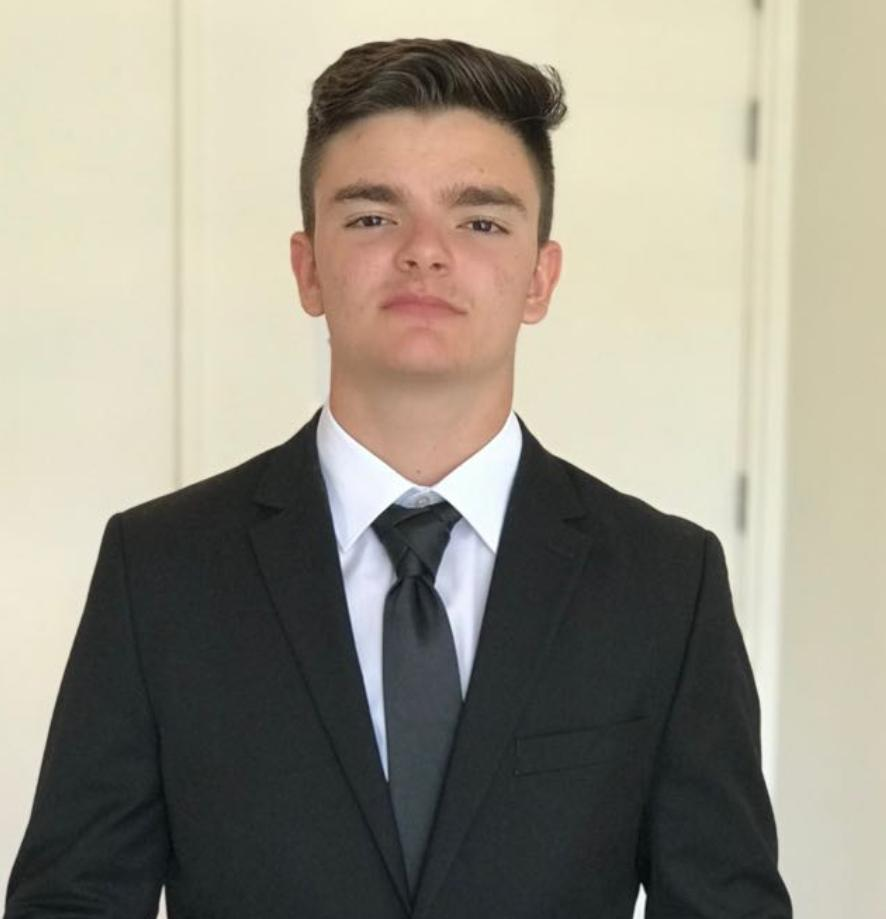
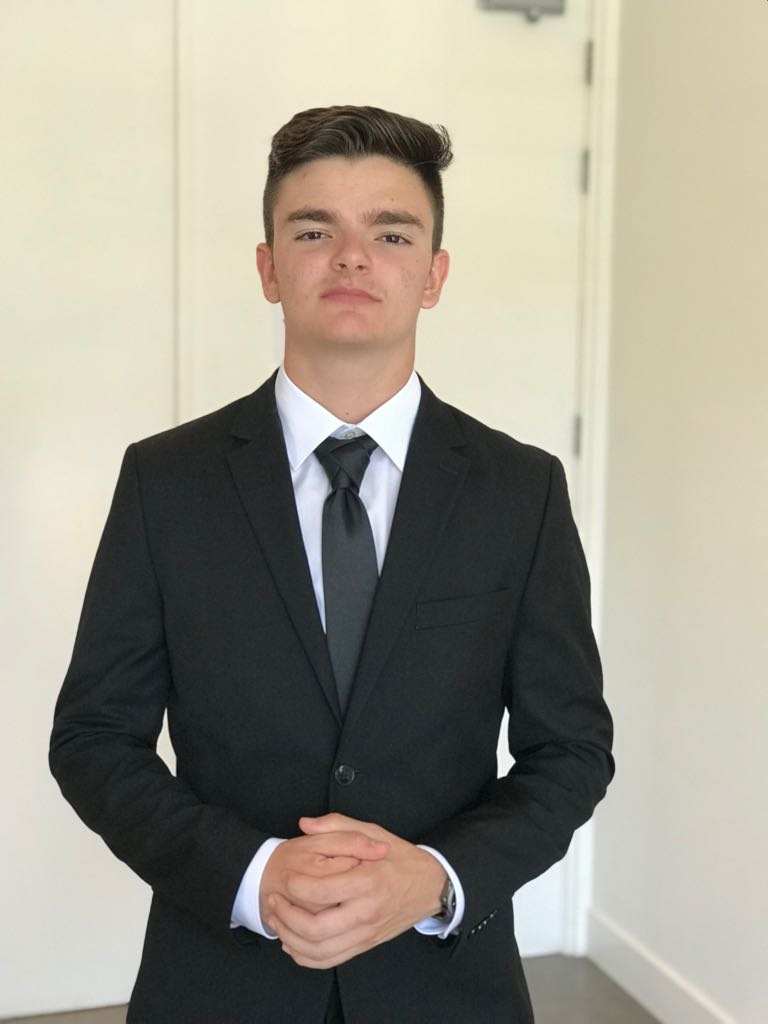
Akkabouz

diff --git a/OnsTeam.html b/OnsTeam.html
@@ -24,40 +24,45 @@
     <!-- Team Container -->
     <article class="article1">
         <div class="teamContainer teamPadding teamCenter" id="team">
-            <h2>Ons Team</h2>
-            <p>Ontmoet ons team:</p>
+            <h2>Ontmoet ons team:</h2>
 
             <div class="namenBalk">
 
                 <div class="Naam">
-                    <h3>Martin Antonov</h3>
-                    <img class="imgMartin" src="images/Martin.jpeg" alt="Avatar">
+                    <h3>Martin<br>Antonov</h3>
+                    <img class="img" src="images/MartinV2.jpeg" alt="Avatar">
                     <p>Voorzitter</p>
                 </div>
 
                 <div class="Naam">
                     <h3>Danial<br>Iqbal</h3>
-                    <img class="imgDanial" src="images/Danial.jpeg" alt="Avatar">
+                    <img class="img" src="images/Danial.jpeg" alt="Avatar">
+                    <p>Notulist & Designer</p>
                 </div>
 
                 <div class="Naam">
-                    <h3>Anass Mortaki</h3>
+                    <h3>Anass<br>Mortaki</h3>
                     <img class="img" src="images/Anass.jpg" alt="Avatar">
+                    <p>Researcher</p>
+                    <p>
                 </div>
 
                 <div class="Naam">
                     <h3>Abbas<br>Sardar</h3>
                     <img class="imgAbbas" src="images/Abbas.jpg" alt="Avatar">
+                    <p>Head developer</p>
                 </div>
 
                 <div class="Naam">
-                    <h3>Jason Schermer</h3>
+                    <h3>Jason<br>Schermer</h3>
                     <img class="img" src="images/Jason.jpg" alt="Avatar">
+                    <p>Planner</p>
                 </div>
 
                 <div class="Naam">
                     <h3>Onur Ortaakarsuci</h3>
                     <img class="img" src="images/Onur.jpg" alt="Avatar">
+                    <p>Tester</p>
                 </div>
 
             </div>

diff --git a/Css/Home.css b/Css/Home.css
@@ -121,6 +121,7 @@ div.namen {
     background-color: blue;
 
 }
+
 div.Naam1{
     margin-left: 0px;
     width: 100px;
@@ -140,7 +141,7 @@ div.Naam2 {
     padding: 10px;
     height: 340px;
     box-sizing: border-box;
-    border: 3px dotted #D81E05;
+    border: 3px solid #D81E05;
 }
 
 .img{
@@ -155,22 +156,14 @@ div.Naam2 {
     width: 70%;
 }
 
-.imgDanial{
-    border-radius: 10%;
-    width: 80%;
-    height: 60%;
-}
 
-.imgMartin{
-    border-radius: 10%;
-    width: 70%;
-}
+
 .teamCenter {
     text-align: center !important;
 }
 
 .onzeAfspraken {
-    border: 3px dotted #D81E05;
+    border: 3px solid #D81E05;
     margin-top: 350px;
 }
 
